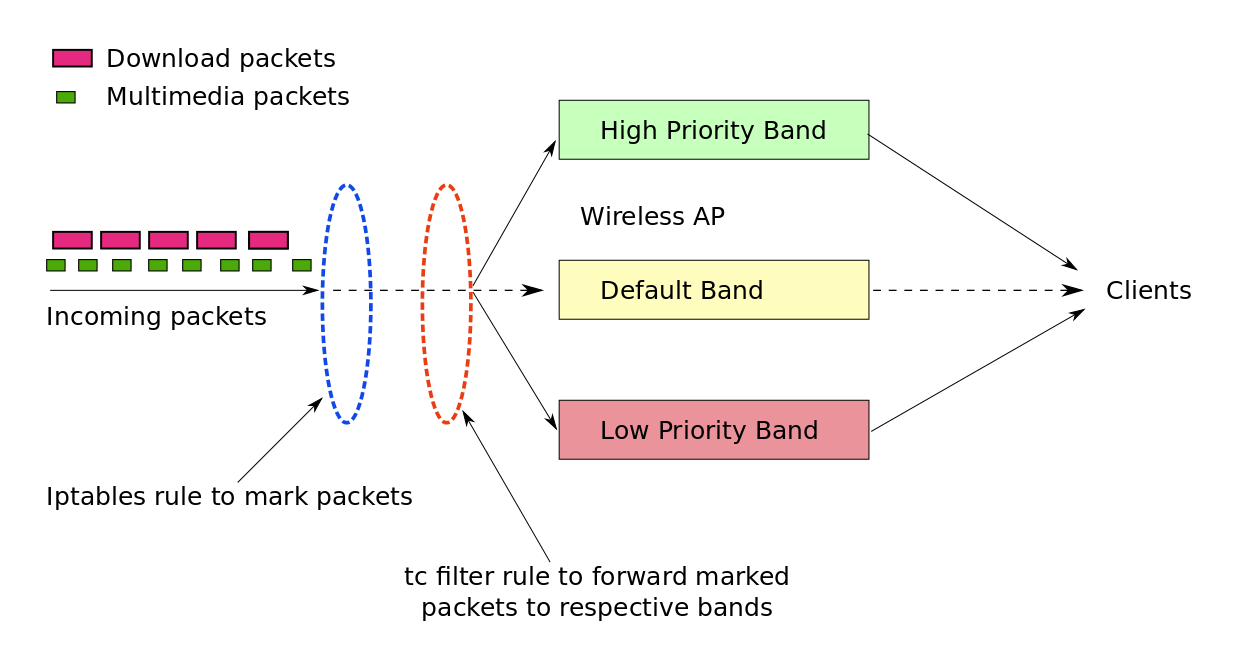
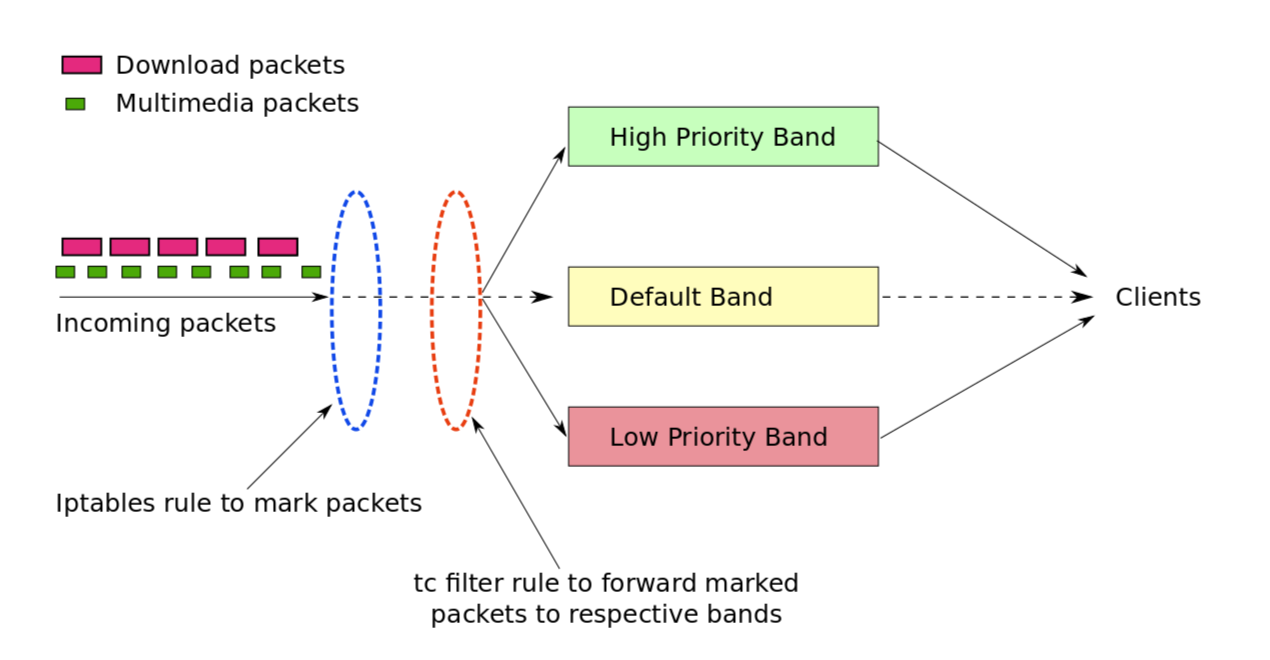
second commit

diff --git a/docs/v1.0/README_Developer.md b/docs/v1.0/README_Developer.md
@@ -1,12 +1,12 @@
-##Traffic classification Developer's Guide
+##Traffic Classification Developer's Guide
 
-The manual contains a brief overview of the scripts. We have bash and python scripts in this project.
+The manual contains a brief overview of the scripts. We have used bash and python scripts in this project.
 
 ## Overview of complete process
 
 Traffic classification is basically two phase process.</br>
-1. Collecting traces and training the classifier (offline)</br>
-2. Using the classification model to classify the traffic (real-time)
+1. Trace collection and training the classifier (offline)</br>
+2. Identify multimedia traffic using classification model (real-time)
 
 Figure 1 shows the big picture of the whole process.
 
@@ -20,9 +20,9 @@ Figure 1 shows the big picture of the whole process.
 First we collect traces, use some labeling mechanism to label the training flows. Then we select the minimal set of features which can classify the traffic with high accuracy. 
 After this, we apply different ML algorithms to train the classifier which is further used in the real-time scenario.
 
-During real-time classification, inside an AP, traffic is captured live and then we calculate the flow related statistics (feature values) after certain pre-defined threshold point, and depending upon those feature values, the flow is classified as either multimedia or download. If it is classified as multimedia then that flow is prioritized immediately.
+During real-time classification, inside an AP, traffic is captured live and then we calculate the flow related statistics (feature values) after certain pre-defined threshold point. Depending upon those feature values, the flow is classified as either multimedia or download. If it is classified as multimedia then that flow is prioritized immediately.
 
-As the same training data might not be effective after long duration because the flow characteristics changes over the period of time, we need to update our classifier at regular intervals. To re-train the classifier, we save the traces during the real-time deployment and at regular intervals we keep on adding these new flows along with their correct tags in the existing training data. Thus the changes in the network characteristics can be reflected.
+As the same training data might not be effective after long duration because the flow characteristics changes over the period of time, we need to update our classifier at regular intervals. To re-train the classifier, we save the traces during the real-time classification and at regular intervals we keep on adding these new flows along with their correct tags in the existing training data and re-train the classifier. Thus, the changes in the network/traffic characteristics can be reflected.
 
 
 
@@ -39,8 +39,8 @@ This directory contains 2 bash scripts which are executed on 2-interface machine
 
 #### Module 2: DHCP 
 This module configures the dhcp server on a machine. This module consists of 3 files.</br>
-1. **Configure-dhcp-server.sh :** It makes the necessary changes in /etc/dhcp/dhcpd.conf and /etc/network/interfaces files to configure the ip-ranges and gateway etc.</br>
-2. **interfaces :** This is the file contains information about the gateway, netmask etc.</br>
+1. **configure-dhcp-server.sh :** It makes the necessary changes in /etc/dhcp/dhcpd.conf and /etc/network/interfaces files to configure the ip-ranges and gateway etc.</br>
+2. **interfaces :** This file contains information about the gateway, netmask and other parameters.</br>
 3. **dhcpd.conf :** This file contains the defined ip-ranges that will be allotted by the dhcp server. You can make the necessary changes in this file as per requirement.</br>
 
 #### Module 3: Label-training-data 
@@ -50,7 +50,7 @@ There are two sub directories.</br>
 ##### for-multimedia-pcaps :
 It does the labeling for multimedia trace files.</br>
 create-training-data-for-Multimedia.sh : It uses tshark command to fetch the required fields from each of the packets . It further invokes generate-list-of-port-with-GET-request.py, create-csv-with-flow-features.py and create-header.py to create a csv file which contains all the multimedia flows.
-	It also takes care of all those pcaps which do not have HTTP GET requests. You can read the comments in the script for more details.</br>
+	It also takes care of all those pcaps which do not have HTTP GET requests. You can read the comments in the scripts for more details.</br>
 
 		
 ##### for download-pcaps :
@@ -59,8 +59,8 @@ create-training-data-for-download.sh : It invokes create-csv-with-flow-features-
 
 #### Module 4:Configure-Laptop-as-AP
 This module consists of 3 files.</br>
-1. **Laptop-AP :**  This file contains the configuration information of the network (access point) that will be created. You can change the SSID,wifi security settings, etc., in this file.</br>
-2. **make-ap.sh :** This script copies Laptop-AP file to /etc/NetworkManager/system-connections/ location and restarts network manager to further create a wifi network with the SSID mentioned in Laptop-AP file.</br>
+1. **Laptop-AP :**  This file contains the configuration information of the access point that will be created. You can change the SSID,wifi security settings, etc., in this file.</br>
+2. **make-ap.sh :** This script copies Laptop-AP file to /etc/NetworkManager/system-connections/ location and restarts network manager to create a wifi network with the SSID mentioned in Laptop-AP file.</br>
 3. **remove-ap.sh :** It will undo the changes made by the make-ap.sh script.</br>
 
 #### Module 5: DT-classification-2-interface-machine 
@@ -72,12 +72,11 @@ This module contains scripts which are applied at 2-interface machine setup (see
 <p align="center">Fig. 2: 2-interface machine setup</p>
 
 This does the decision tree based classification. It has following files.</br>
-1. **generate-decision-tree-model.sh :**   This script is used to generate decision tree model from the given training data .</br>
-2. **create-htb-queues.sh :** This script creates 3 bands and it had some tc filter rules which forwards multimedia packets in high priority band. Fig. 3 shows the HTB bands and how we use iptables rules along with tc filter rules to put the multimedia flow packets in the prioritized band. After the classification script has identified a flow as multimedia, it applies an iptables rule which marks all packets belong to that flow as some particular number, say 5. Now we have another tc filter rule which filters all packets marked with number 5 and then forwards them to high priority band. Thus multimedia flow gets prioritized. There are some other parameters also, such as ceil, rate, etc., that you can change as per requirement (see the comments in the script for more details) .</br>
-
+1. **generate-decision-tree-model.sh :**   This script is used to generate decision tree model from the given training data.</br>
+2. **create-htb-queues.sh :** This script creates 3 bands and it has some tc filter rules which forward multimedia packets to high priority band. Fig. 3 shows the HTB bands and how we use iptables rules along with tc filter rules to put the multimedia flow packets in the prioritized band. After the classification script has identified a flow as multimedia, it applies an iptables rule which marks all the packets belonging to that flow as some particular number, say 5. Now we have another tc filter rule which filters all the packets marked with number 5 and then forwards them to high priority band. Thus multimedia flows get prioritized. There are some other parameters also, such as ceil, rate, etc., that you can change as per requirement (see the comments in the script for more details).
 
 <div align="center">
-<img src="images/htp_prio_bands.png" alt="Fig. 3: HTB bands and Use of iptables and tc filter rules" width="800" height="250" />
+<img src="images/htp_prio_bands.png" alt="Fig. 3: HTB bands and Use of iptables and tc filter rules" width="800" height="320" />
 </div>
 <p align="center">Fig. 3: HTB bands and Use of iptables and tc filter rules</p>
 
